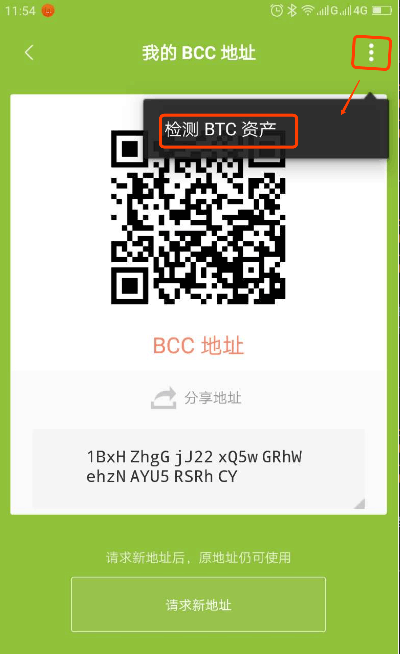
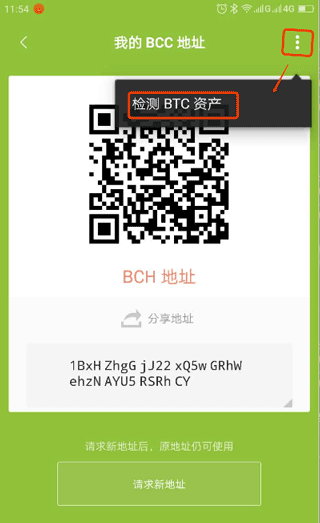
update bcc to bch

diff --git a/anotherAssets/index.rst b/anotherAssets/index.rst
@@ -4,16 +4,16 @@
 更新比特派最新版本。
 
 
-提取转错的BCC
+提取转错的BCH
 --------------------
 
 
-注:如果误将BCC发到隔离验证的地址上，将造成BCC损失，无法找回。
+注:如果误将BCH发到隔离验证的地址上，将造成BCH损失，无法找回。
 
 
-1.如果误将BCC发到了BTC地址上，请切换到BTC界面。
+1.如果误将BCH发到了BTC地址上，请切换到BTC界面。
 
-2.选择我的-我的地址－收款地址-在我的历史收款BTC地址中'选择误发的地址'-检测BCC资产。
+2.选择我的-我的地址－收款地址-在我的历史收款BTC地址中'选择误发的地址'-检测BCH资产。
 
 .. image:: ../img/my_address.png
     :width: 320px
@@ -29,7 +29,7 @@
     :align: center
 
 
-如果没有找到BTC地址(误发的地址)，请切换到BTC界面。选择收币-我的BTC地址-检测BCC资产(右上角三点)。
+如果没有找到BTC地址(误发的地址)，请切换到BTC界面。选择收币-我的BTC地址-检测BCH资产(右上角三点)。
 
 .. image:: ../img/addCheckBcc.png
     :width: 320px
@@ -38,7 +38,7 @@
     :align: center
 
 
-3.提取BCC，提取BCC地址就是你的收币地址。
+3.提取BCH，提取BCH地址就是你的收币地址。
 
 .. image:: ../img/checkResult.png
     :width: 320px
@@ -50,9 +50,9 @@
 提取转错的BTC
 -----------------------
 
-1.如果误将BTC发到BCC地址上，请切换到BCC界面。
+1.如果误将BTC发到BCH地址上，请切换到BCH界面。
 
-2.选择我的-我的地址－收款地址-在我的历史收款BCC地址中'选择误发的地址'-检测BTC资产。
+2.选择我的-我的地址－收款地址-在我的历史收款BCH地址中'选择误发的地址'-检测BTC资产。
 
 .. image:: ../img/checkBtc.png
     :width: 320px
@@ -61,7 +61,7 @@
     :align: center
 
 
-如果没有找到BCC地址(误发的地址)，请切换到BCC界面。选择收币-我的BCC地址-检测BTC资产(右上角三点)。
+如果没有找到BCH地址(误发的地址)，请切换到BCH界面。选择收币-我的BCH地址-检测BTC资产(右上角三点)。
 
 .. image:: ../img/addCheckBtc.png
     :width: 320px
